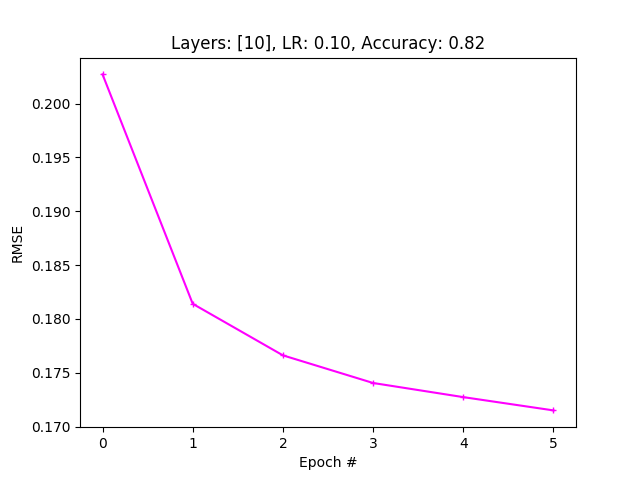
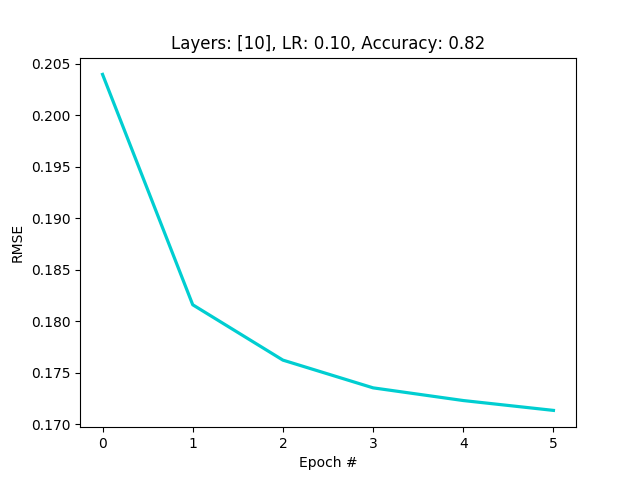
added try except statement

diff --git a/project4/backprop.py b/project4/backprop.py
@@ -81,7 +81,7 @@ class BackProp:
                     num_prev = self.num_inputs
                 else:
                     num_prev = self.num_neurons[i-1]
-                hid_w.append(list(np.random.uniform(-0.01, 0.01, num_prev)))
+                hid_w.append(np.random.uniform(-0.01, 0.01, num_prev))
             self.hidden_weights.append(np.array(hid_w))
 
         self.bias_weights = np.array(self.bias_weights, dtype=object)
@@ -184,7 +184,7 @@ class BackProp:
         plt.figure(n)
         title = "Layers: %s, LR: %.2f, Accuracy: %.2f" % (str(self.num_neurons), self.learning_rate, self.accuracy)
         plt.title(title)
-        plt.plot(range(self.number_epochs), self.RMSE, marker='+', linestyle='-', color='magenta', markersize=4)
+        plt.plot(range(self.number_epochs), self.RMSE, linestyle='-', color='darkturquoise', linewidth=2.3)
         plt.xlabel('Epoch #')
         plt.ylabel('RMSE')
         plt.savefig('images/rmse_'+str(n)+'.png')
@@ -232,7 +232,13 @@ def main():
                 n = (i * len(epochs) + j) * len(lrate) + k
                 print('Problem %d' % n, file=outfile)
                 print('Testing Network %d' % n)
-                BackProp(d, lr, e, len(l), l).run(n, outfile)
+                try:
+                    BackProp(d, lr, e, len(l), l).run(n, outfile)
+                except OverflowError:
+                    print('Overflow in layers combination %d, epochs = %d, and l. rate = %.2f' % (i, j, k), file=outfile)
+                except:
+                    print('Some other error')
+                    raise
     outfile.close()
 
 
